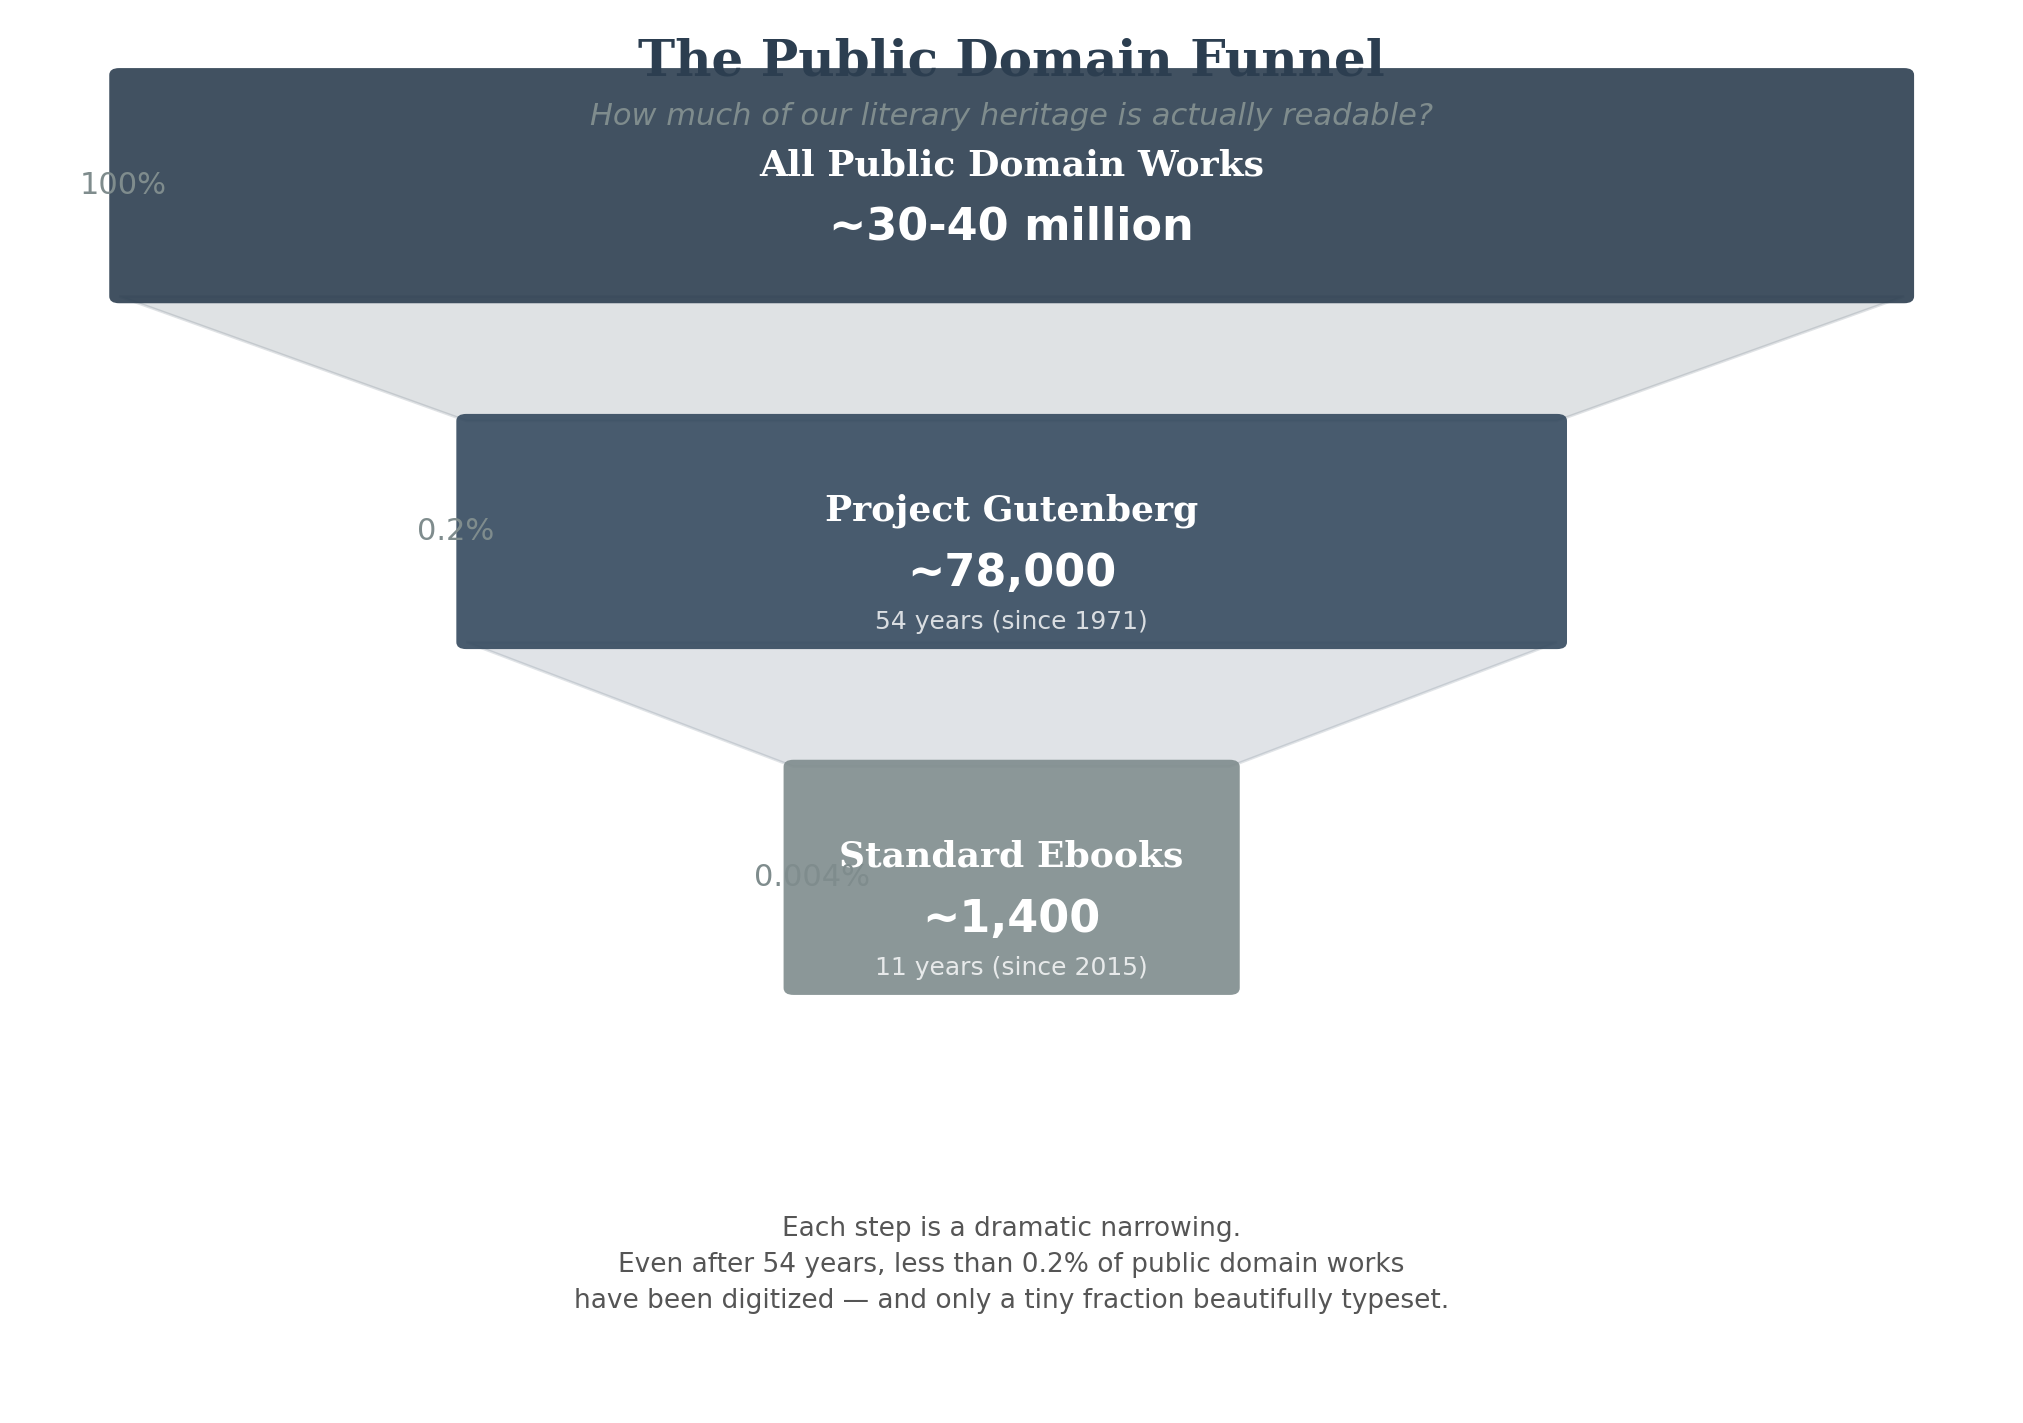
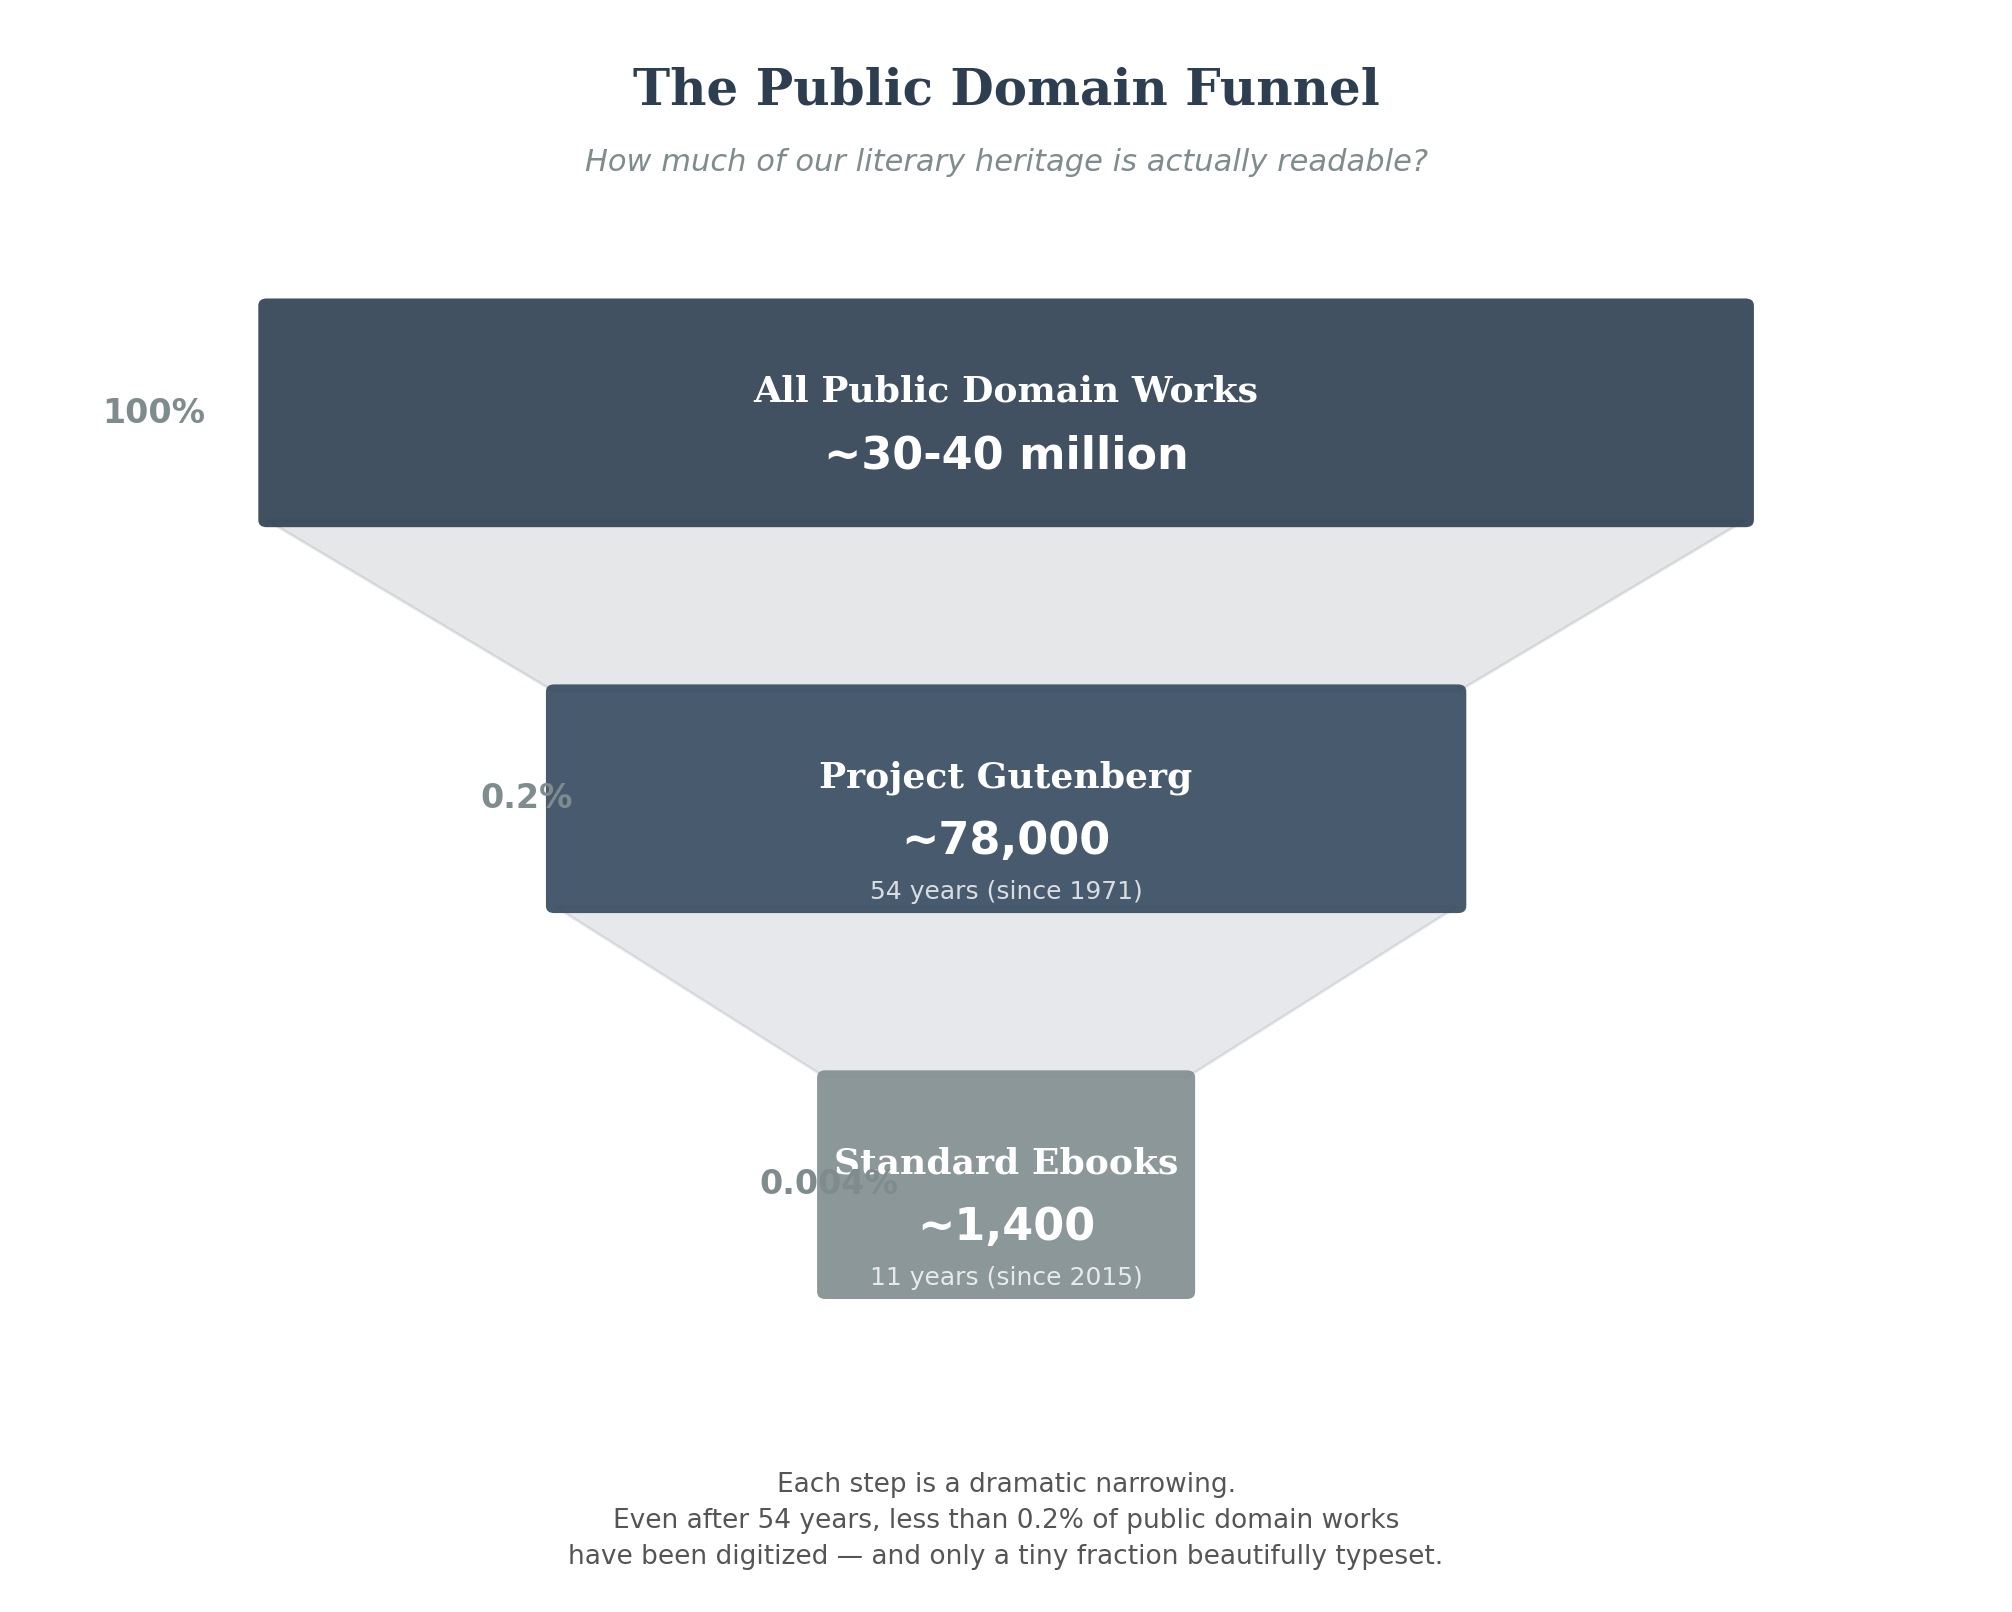
fix: funnel graphic spacing — percentages no longer overlap bars

diff --git a/content/about.md b/content/about.md
@@ -13,9 +13,11 @@ century. The results tell a story of how far we still have to go.
 
 ![The Public Domain Funnel](/img/pd-funnel.png)
 
-**Project Gutenberg**, founded in 1971, has produced roughly 78,000
+## Our Heroes
+
+**[Project Gutenberg](https://https://www.gutenberg.org/)**, founded in 1971, has produced roughly 78,000
 electronic texts in 54 years — a monumental achievement representing about
-**0.2%** of what exists. **Standard Ebooks**, founded around 2015, takes
+**0.2%** of what exists. **[Standard Ebooks](https://standardebooks.org)**, founded around 2015, takes
 those texts and transforms them into beautifully designed, professionally
 typeset ebooks. In 11 years they have produced roughly **1,400 titles** —
 about 0.004% of the public domain.
@@ -26,25 +28,28 @@ does justice to the work, is immense.
 ## A matter of pace
 
 Standard Ebooks produces each book through careful, labor-intensive volunteer
-work. A typical title takes **three to six months**. At that rate — about 127
-books per year — matching Gutenberg's catalog would take over a century.
+work. A typical title takes anywhere from **three days to six months**. At an overall rate of about 127
+books per year, matching Gutenberg's catalog would take over a century.
 
 We built a production pipeline that brings the time per book from months down
 to **days**, sometimes a single day, without sacrificing quality. Every book
 is sourced from a reliable transcription, compared against original page scans
-to correct errors, and enhanced with proper typography, semantic structure,
-and accessibility features. The output is an EPUB that stands alongside the
+to correct errors, and enhanced with proper typography, and semantic structure. 
+The output is an EPUB that stands alongside the
 best available editions — and the build process is fully reproducible from
 source.
 
-At a production rate of 3–5 books per day, the math changes: in under a year,
+## I saw 'we', but I'm currently one person.
+I can do 1 book every 1-2 days.  
+
+Imagine a production rate of 3–5 books per day: in under a year,
 we could match Standard Ebooks' entire catalog. In five years, over 9,000
 carefully edited titles.
 
+Imagine if we could do more that--we might even start closing the gap.
+
 ## Our standards
 
-- **Accessible by default.** Our editions conform to EPUB Accessibility 1.1
-  (WCAG 2.2 Level AA), with semantic structure, alt text, and reading order.
 - **Open source.** The complete source for every book lives on
   [GitHub](https://github.com/Impression-Editions), so anyone can inspect,
   learn from, or build upon our work.
